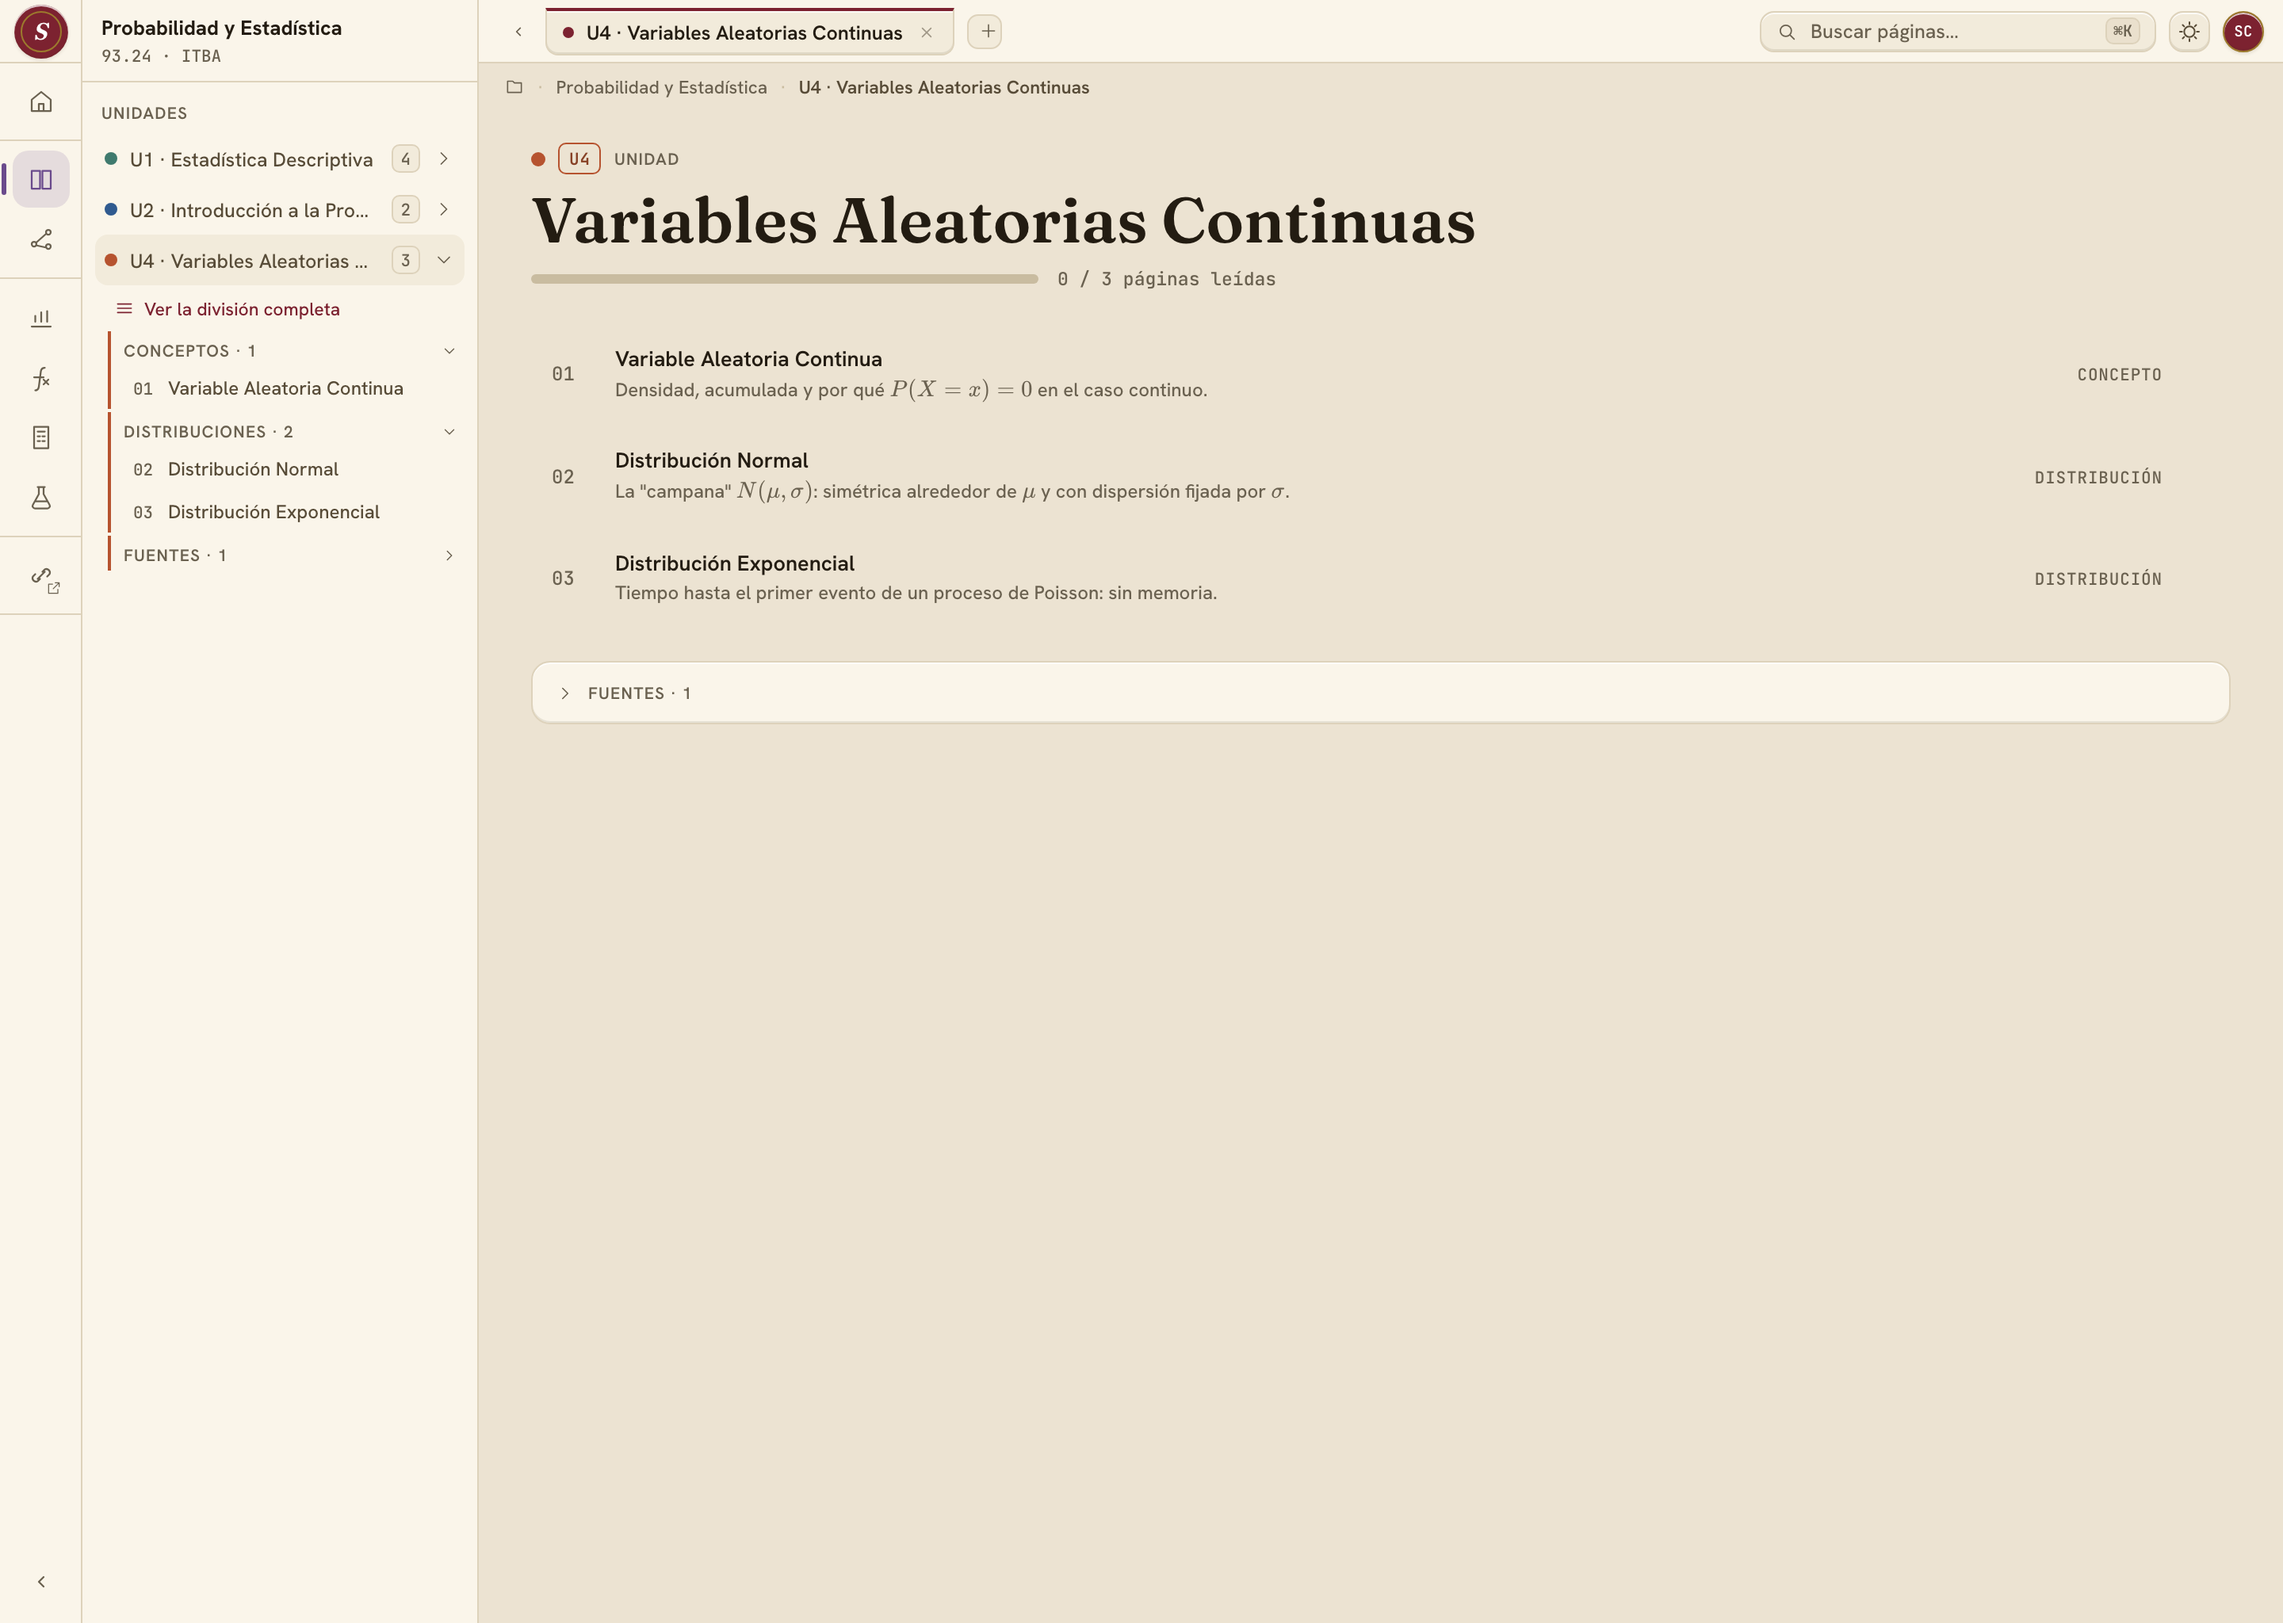
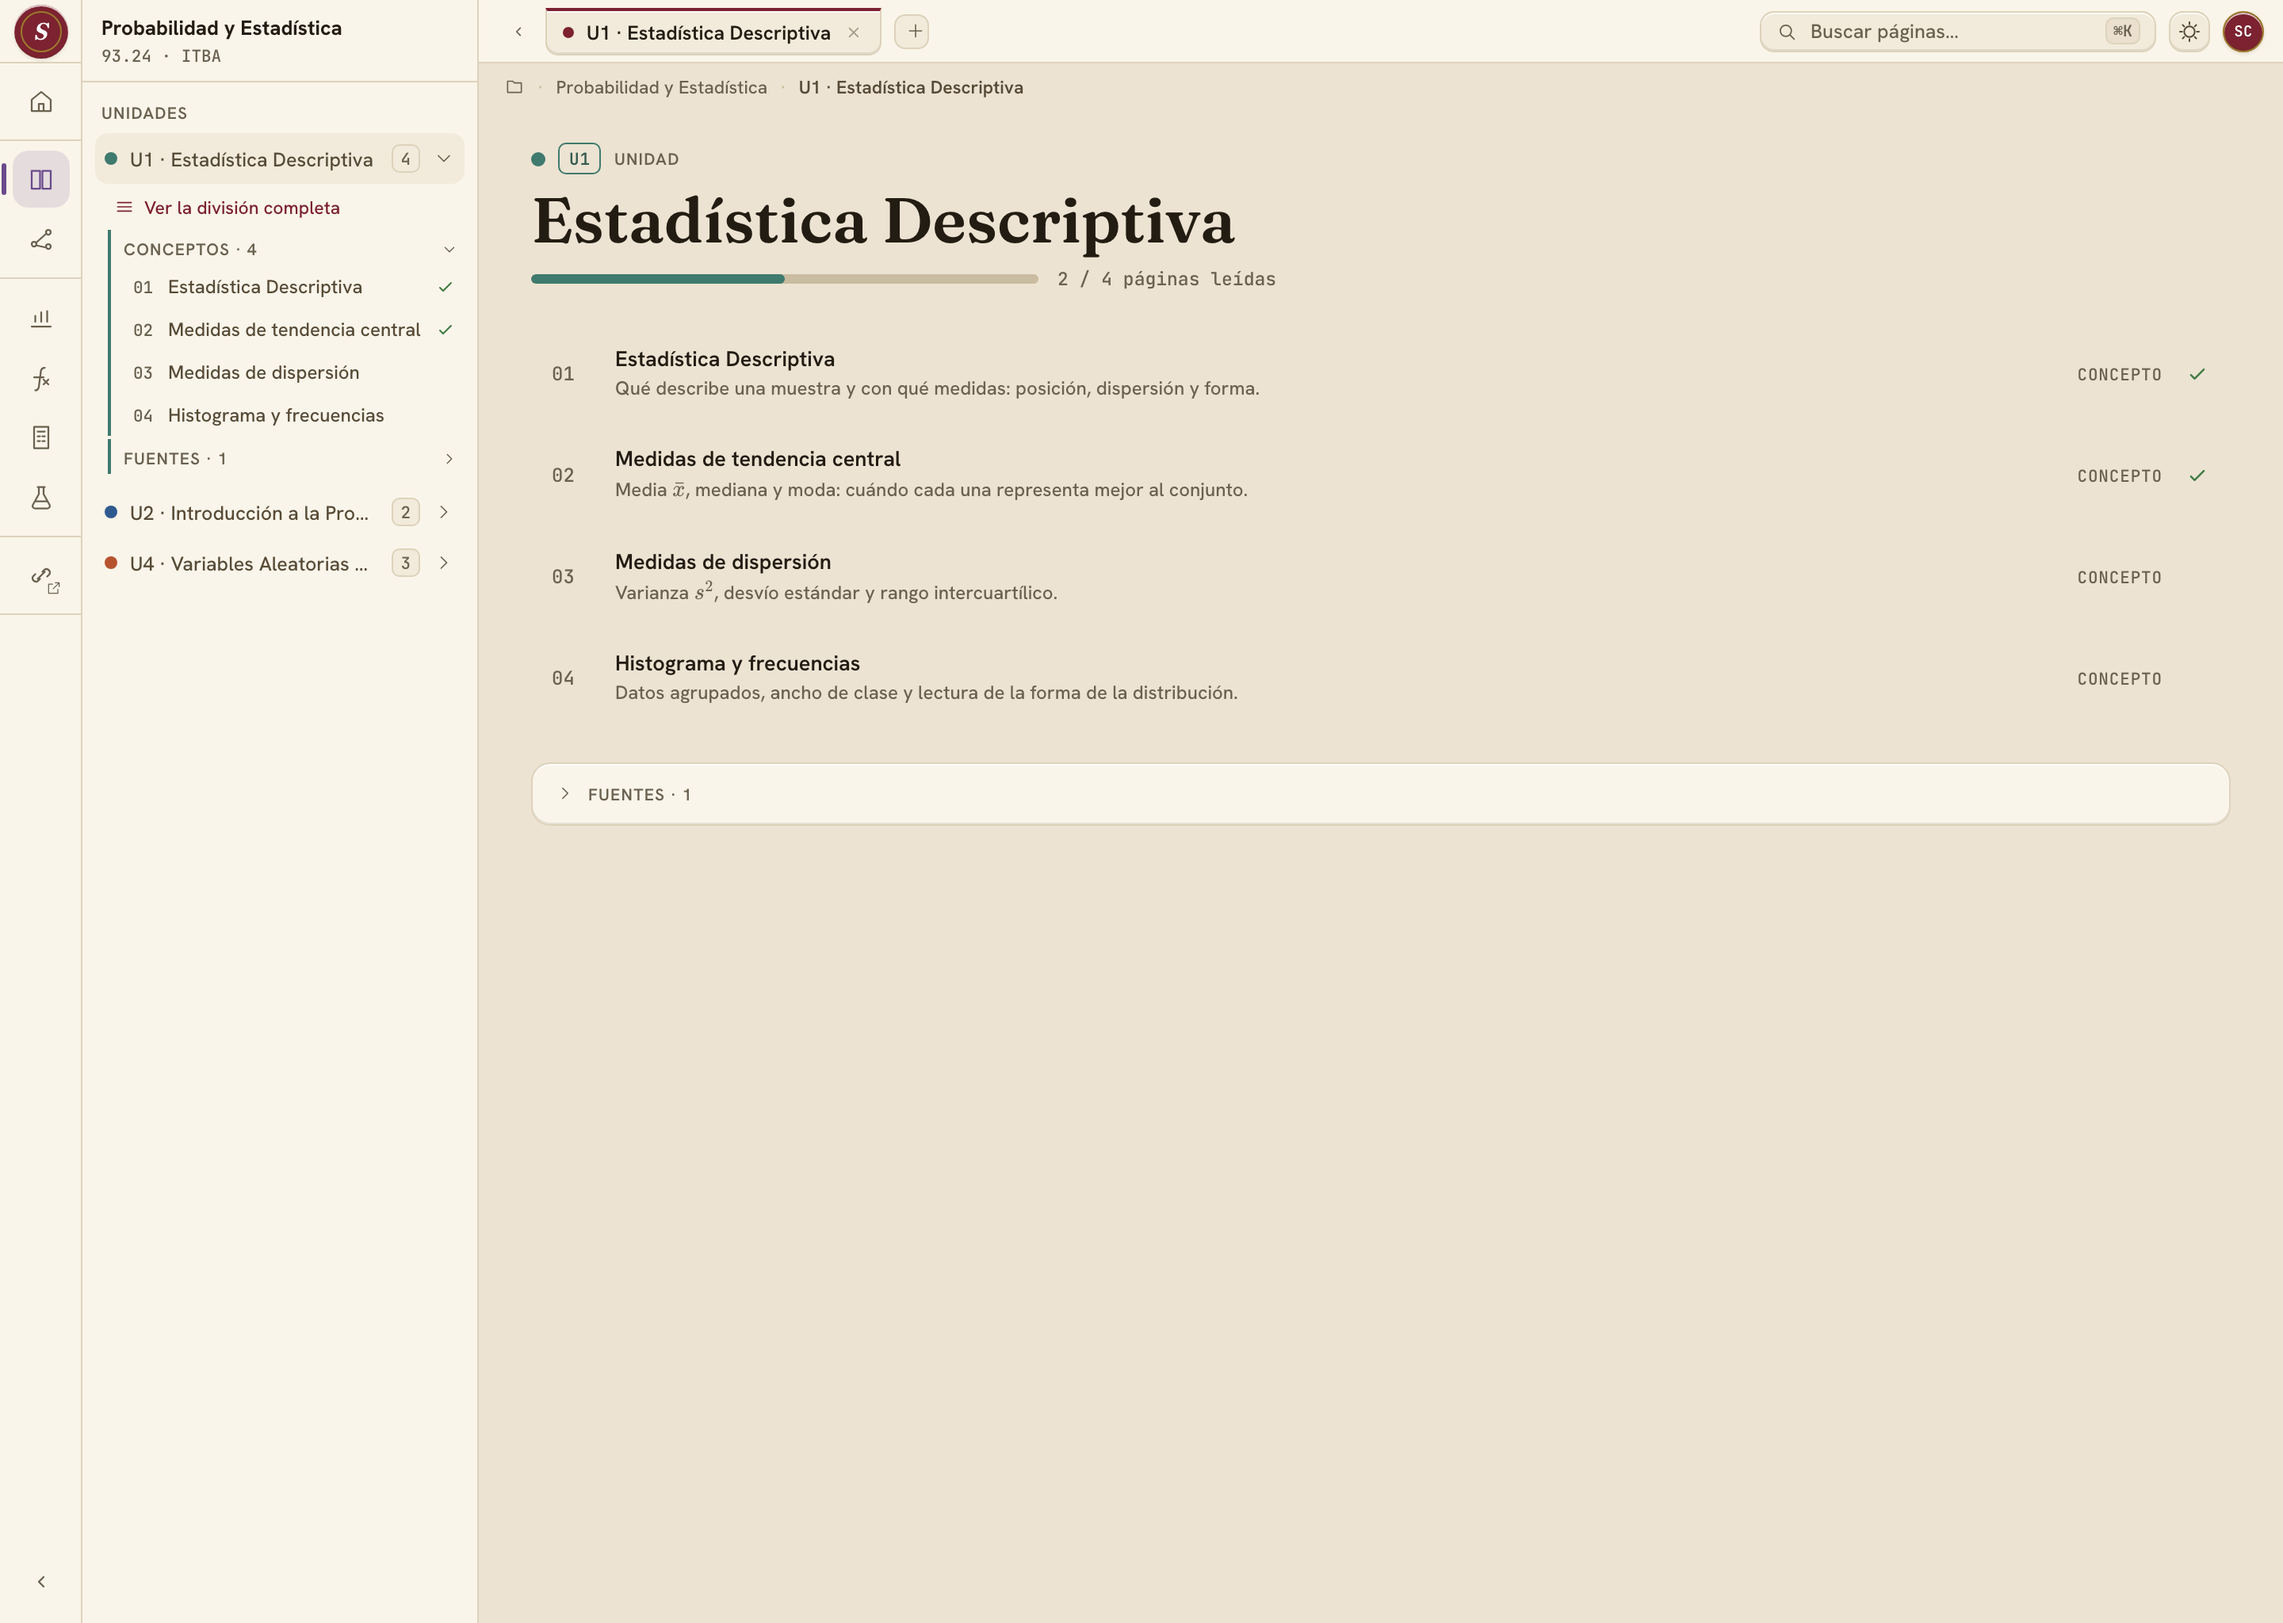
Ola 1 (C+D): base web, login, landing, shell de materia, lector markdown/KaTeX, catálogo y búsqueda

diff --git a/apps/web/src/features/subject/views/ReaderView.tsx b/apps/web/src/features/subject/views/ReaderView.tsx
@@ -21,7 +21,9 @@ export function ReaderView() {
   const toggleStudied = useToggleStudied(slug);
   const [sideOpen, setSideOpen] = useState(true);
   const [activeHeading, setActiveHeading] = useState<string | null>(null);
+  const [domHeadings, setDomHeadings] = useState<PageHeading[]>([]);
   const sourcesRef = useRef<HTMLElement>(null);
+  const sheetRef = useRef<HTMLElement>(null);
 
   const detail = query.data;
   const page = detail?.page;
@@ -33,10 +35,26 @@ export function ReaderView() {
   const { prev, next } = model.prevNext(pageSlug);
   const upcoming = position ? sequence.slice(position, position + 3) : [];
   const slugs = useMemo(() => new Set(model.bySlug.keys()), [model]);
-  const headings = useMemo(
+  const metaHeadings = useMemo(
     () => (page?.headings ?? []).filter((h) => h.level === 2 || h.level === 3),
     [page?.headings],
   );
+  /* Los ids de verdad son los que puso rehype-slug en el DOM: el índice de la
+     página se arma con ellos, no con los del compilador, para que un criterio
+     distinto de slug (acentos, puntuación) no rompa las anclas. */
+  const headings = domHeadings.length ? domHeadings : metaHeadings;
+
+  useEffect(() => {
+    if (!detail) return;
+    const found = sheetRef.current?.querySelectorAll<HTMLElement>("h2[id], h3[id]");
+    setDomHeadings(
+      [...(found ?? [])].map((el) => ({
+        level: el.tagName === "H3" ? 3 : 2,
+        text: el.textContent ?? "",
+        id: el.id,
+      })),
+    );
+  }, [detail, pageSlug]);
 
   /* Al cambiar de página: arriba de todo, salvo que la URL traiga un ancla. */
   useEffect(() => {
@@ -44,14 +62,14 @@ export function ReaderView() {
     const scroller = document.querySelector<HTMLElement>("main[data-subject-main]");
     const hash = decodeURIComponent(location.hash.replace(/^#/, ""));
     if (hash) {
-      const target = document.getElementById(hash);
+      const target = findAnchor(sheetRef.current, hash);
       if (target) {
         target.scrollIntoView({ block: "start" });
         return;
       }
     }
     scroller?.scrollTo({ top: 0 });
-  }, [detail, pageSlug, location.hash]);
+  }, [detail, pageSlug, location.hash, domHeadings]);
 
   /* Scroll-spy del índice de la página. */
   useEffect(() => {
@@ -107,7 +125,7 @@ export function ReaderView() {
           </span>
         </div>
 
-        <article className={css.sheet}>
+        <article className={css.sheet} ref={sheetRef}>
           <header className={css.sheetHead}>
             {division ? (
               <Link className={css.divisionChip} to={routes.division(slug, division.key)}>
@@ -211,7 +229,7 @@ export function ReaderView() {
                     data-active={activeHeading === h.id ? "true" : undefined}
                     onClick={(e) => {
                       e.preventDefault();
-                      document.getElementById(h.id)?.scrollIntoView({ block: "start", behavior: "smooth" });
+                      findAnchor(sheetRef.current, h.id)?.scrollIntoView({ block: "start", behavior: "smooth" });
                       history.replaceState(null, "", `#${h.id}`);
                     }}
                   >
@@ -272,6 +290,24 @@ export function ReaderView() {
       </button>
     </div>
   );
+}
+
+/**
+ * Busca el destino de un ancla. Primero por id exacto; si no, comparando sin
+ * acentos: un wikilink escrito «#estandarizacion» tiene que abrir la sección
+ * «Estandarización» aunque el id del DOM conserve la tilde.
+ */
+function findAnchor(root: HTMLElement | null, hash: string): HTMLElement | null {
+  if (!hash) return null;
+  const direct = document.getElementById(hash);
+  if (direct) return direct;
+  const norm = (value: string) =>
+    value.toLowerCase().normalize("NFD").replace(/[\u0300-\u036f]/g, "");
+  const wanted = norm(hash);
+  for (const el of root?.querySelectorAll<HTMLElement>("[id]") ?? []) {
+    if (norm(el.id) === wanted) return el;
+  }
+  return null;
 }
 
 export default ReaderView;

diff --git a/apps/web/src/features/landing/LandingPage.tsx b/apps/web/src/features/landing/LandingPage.tsx
@@ -32,7 +32,7 @@ import {
   useToast,
 } from "@/components/platform";
 import { landingData } from "./data";
-import { SemesterSection } from "./SemesterSection";
+import { SemesterSection, isGroupId, semesterOfGroupId } from "./SemesterSection";
 import { GhostCard, SubjectCard } from "./SubjectCard";
 import { AddSubjectDialog } from "./AddSubjectDialog";
 import css from "./LandingPage.module.css";
@@ -240,8 +240,8 @@ export function LandingPage() {
   );
 
   const containerOf = (list: DraftGroup[], id: string): number =>
-    id.startsWith("sem:")
-      ? list.findIndex((g) => g.semester === id.slice(4))
+    isGroupId(id)
+      ? list.findIndex((g) => g.semester === semesterOfGroupId(id))
       : list.findIndex((g) => g.slugs.includes(id));
 
   function onDragStart(e: DragStartEvent) {
@@ -262,7 +262,7 @@ export function LandingPage() {
       const target = next[to];
       if (!source || !target) return prev;
       source.slugs = source.slugs.filter((s) => s !== activeId);
-      const overIndex = overId.startsWith("sem:") ? -1 : target.slugs.indexOf(overId);
+      const overIndex = isGroupId(overId) ? -1 : target.slugs.indexOf(overId);
       const at = overIndex < 0 ? target.slugs.length : overIndex;
       target.slugs.splice(at, 0, activeId);
       return next;
@@ -283,7 +283,7 @@ export function LandingPage() {
       const group = prev[from];
       if (!group) return prev;
       const oldIndex = group.slugs.indexOf(activeId);
-      const newIndex = overId.startsWith("sem:") ? group.slugs.length - 1 : group.slugs.indexOf(overId);
+      const newIndex = isGroupId(overId) ? group.slugs.length - 1 : group.slugs.indexOf(overId);
       if (oldIndex === -1 || newIndex === -1 || oldIndex === newIndex) return prev;
       const next = prev.map((g) => ({ ...g, slugs: [...g.slugs] }));
       const moved = next[from];

diff --git a/apps/web/src/features/subject/useSubject.ts b/apps/web/src/features/subject/useSubject.ts
@@ -16,8 +16,10 @@ import { isMockMode } from "@/mocks/dev-fixtures";
 import { buildSubjectModel, type SubjectModel } from "./model";
 import { useIsDark } from "./store";
 
+/* El `import.meta.env.DEV &&` no es redundante: es literal `false` en la compilación
+   de producción, así que el bundler poda el import dinámico y las fixtures no viajan. */
 async function fetchSubject(slug: string): Promise<SubjectDetail> {
-  if (isMockMode()) {
+  if (import.meta.env.DEV && isMockMode()) {
     const { mockSubjectDetail } = await import("./mocks/proba-fixture");
     return mockSubjectDetail(slug);
   }
@@ -25,7 +27,7 @@ async function fetchSubject(slug: string): Promise<SubjectDetail> {
 }
 
 async function fetchPage(slug: string, page: string): Promise<PageDetail> {
-  if (isMockMode()) {
+  if (import.meta.env.DEV && isMockMode()) {
     const { mockPageDetail } = await import("./mocks/proba-fixture");
     return mockPageDetail(slug, page);
   }
@@ -33,7 +35,7 @@ async function fetchPage(slug: string, page: string): Promise<PageDetail> {
 }
 
 async function fetchSearch(slug: string, q: string): Promise<SearchHit[]> {
-  if (isMockMode()) {
+  if (import.meta.env.DEV && isMockMode()) {
     const { mockSearch } = await import("./mocks/proba-fixture");
     return mockSearch(slug, q);
   }
@@ -78,7 +80,7 @@ export function useToggleStudied(slug: string) {
   const qc = useQueryClient();
   return useMutation({
     mutationFn: async ({ page, studied }: { page: string; studied: boolean }) => {
-      if (isMockMode()) return;
+      if (import.meta.env.DEV && isMockMode()) return;
       if (studied) await api.subject.markStudied(slug, page);
       else await api.subject.unmarkStudied(slug, page);
     },

diff --git a/apps/web/src/features/subject/mocks/proba-fixture.ts b/apps/web/src/features/subject/mocks/proba-fixture.ts
@@ -6,6 +6,7 @@
  * En producción no se importa nunca: `useSubject` solo lo carga (import dinámico)
  * cuando `isMockMode()` es verdadero, y ese guardia ya exige `import.meta.env.DEV`.
  */
+import { mockParam } from "@/mocks/dev-fixtures";
 import {
   SubjectConfig,
   type Page,
@@ -77,6 +78,10 @@ export const mockPages: PageMeta[] = [
 export const mockStudied: string[] = ["estadistica-descriptiva", "medidas-de-tendencia-central"];
 
 export function mockSubjectDetail(slug: string): SubjectDetail {
+  /* ?placeholder=1 finge una materia creada a mano y todavía sin sincronizar. */
+  if (mockParam("placeholder") === "1") {
+    return { config: { ...probaConfig, slug }, pages: [], studied: [], placeholder: true, lastSyncAt: null };
+  }
   return {
     config: { ...probaConfig, slug },
     pages: mockPages,

diff --git a/apps/web/src/features/landing/SemesterSection.tsx b/apps/web/src/features/landing/SemesterSection.tsx
@@ -8,7 +8,10 @@ import { SortableSubjectCard, SubjectCard } from "./SubjectCard";
 import css from "./SemesterSection.module.css";
 
 /** id del contenedor droppable de un cuatrimestre (dnd-kit). */
-export const groupId = (semester: string) => `sem:${semester}`;
+export const GROUP_PREFIX = "sem:";
+export const groupId = (semester: string) => `${GROUP_PREFIX}${semester}`;
+export const isGroupId = (id: string) => id.startsWith(GROUP_PREFIX);
+export const semesterOfGroupId = (id: string) => id.slice(GROUP_PREFIX.length);
 
 export interface SemesterSectionProps {
   group: SemesterGroup;

diff --git a/apps/api/src/services/sync.ts b/apps/api/src/services/sync.ts
@@ -53,7 +53,8 @@ function collectWarnings(config: SubjectConfig, list: Page[]): string[] {
     if (page.division !== DIVISION_NONE && !divisions.has(page.division)) {
       push(`página "${page.slug}": la división "${page.division}" no está declarada en el config`);
     }
-    if (!types.has(page.type)) {
+    // "meta" es el tipo reservado de las páginas índice/registro: nunca se declara en pageTypes.
+    if (page.type !== "meta" && !types.has(page.type)) {
       push(`página "${page.slug}": el tipo "${page.type}" no está declarado en pageTypes`);
     }
   }

diff --git a/packages/contract/src/index.ts b/packages/contract/src/index.ts
@@ -406,6 +406,7 @@ export const FIXED_RAIL_TAIL: readonly RailGroup[] = [
 export const LS_KEYS = {
   theme: "sinapsis.theme",
   sidebarCompact: "sinapsis.sbCompact",
+  landingCollapsed: "sinapsis.landing.collapsed",
   openDivisions: (subject: string) => `sinapsis.${subject}.openDivisions`,
 } as const;
 

diff --git a/EXEC_STATE.md b/EXEC_STATE.md
@@ -26,8 +26,8 @@ Workers y verificadores de ola: Opus 5. Auditoría final: modelo N0.
 | S1-04 api sync/pages/search | DONE | ola1 | sync Proba ~89 ms; FTS5 + scorer propio (A-2) |
 | S1-05 cli | DONE | ola1 | init/validate/sync/status; sync real contra API verificado por el orquestador |
 | S1-06 skill /sinapsis | DONE | ola1 | skills/sinapsis + symlink .claude/skills/sinapsis |
-| S1-07 web base | TODO | | ola 1 · agente C |
-| S1-08 web landing | TODO | | ola 1 · agente C |
+| S1-07 web base | DONE | ola1 | store, auth, login GIS+dev, componentes de plataforma |
+| S1-08 web landing | DONE | ola1 | grilla, gestión con dnd-kit, diálogo, vacía; 39 tests web (C+D) |
 | S1-09 web shell materia | TODO | | ola 1 · agente D |
 | S1-10 web inicio | TODO | | ola 1 · agente D |
 | S1-11 web lector | TODO | | ola 1 · agente D |
@@ -56,6 +56,7 @@ Ver `docs/DECISIONS.md` (N0-1 … N0-19).
 |---|---|---|---|---|
 | S-01 | El sync del API avisa «tipo meta no declarado» para indice/log; el compilador ya reserva `meta` (B-3). Alinear el API. | apps/api/src/services/sync.ts | verificación del orquestador | antes del cierre |
 | S-02 | `packages/contract` se consume como .ts crudo; `node dist` del API depende del type stripping de Node ≥ 22.18 (A pendiente). Dar build al contract o bundlear el API. | packages/contract, apps/api | reporte A | Sprint 4 (deploy) |
+| S-03 | Un cuatrimestre creado en la landing sin materias desaparece al guardar y el orden de cuatrimestres no es persistible: `LandingLayoutInput` no transporta `semesters`. Evaluar `semesters: string[]` en API + web. | contract, apps/api, apps/web landing | reporte C (contractRequest 2) | auditoría final |
 
 ## Veredicto final
 
